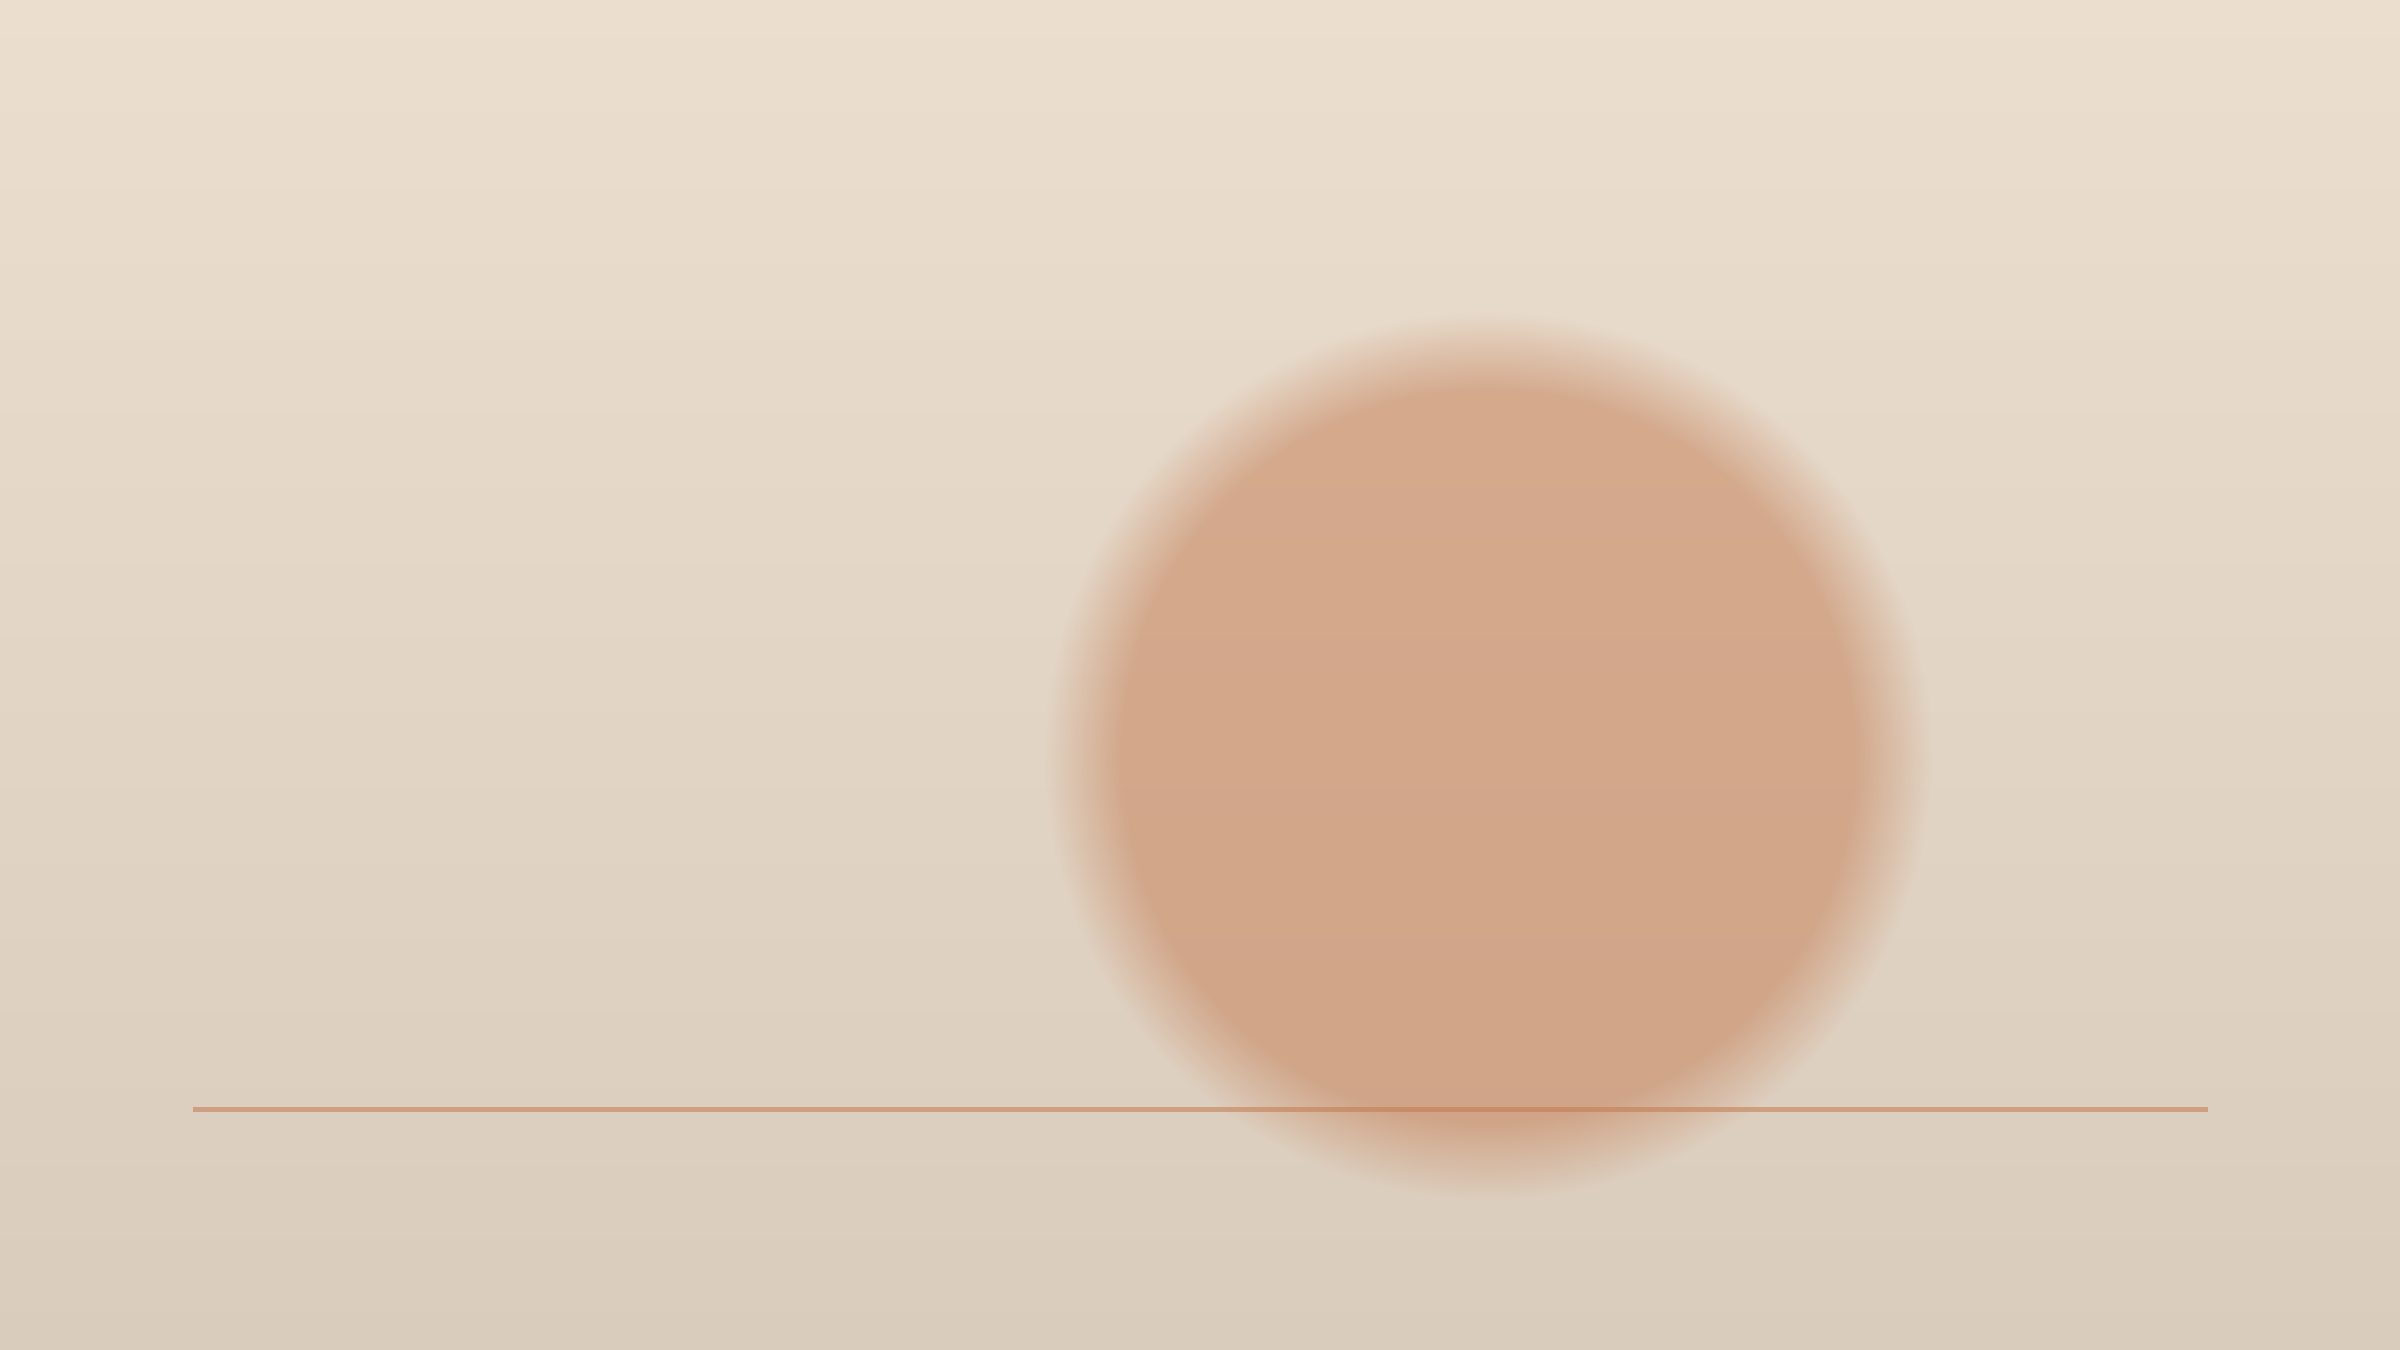
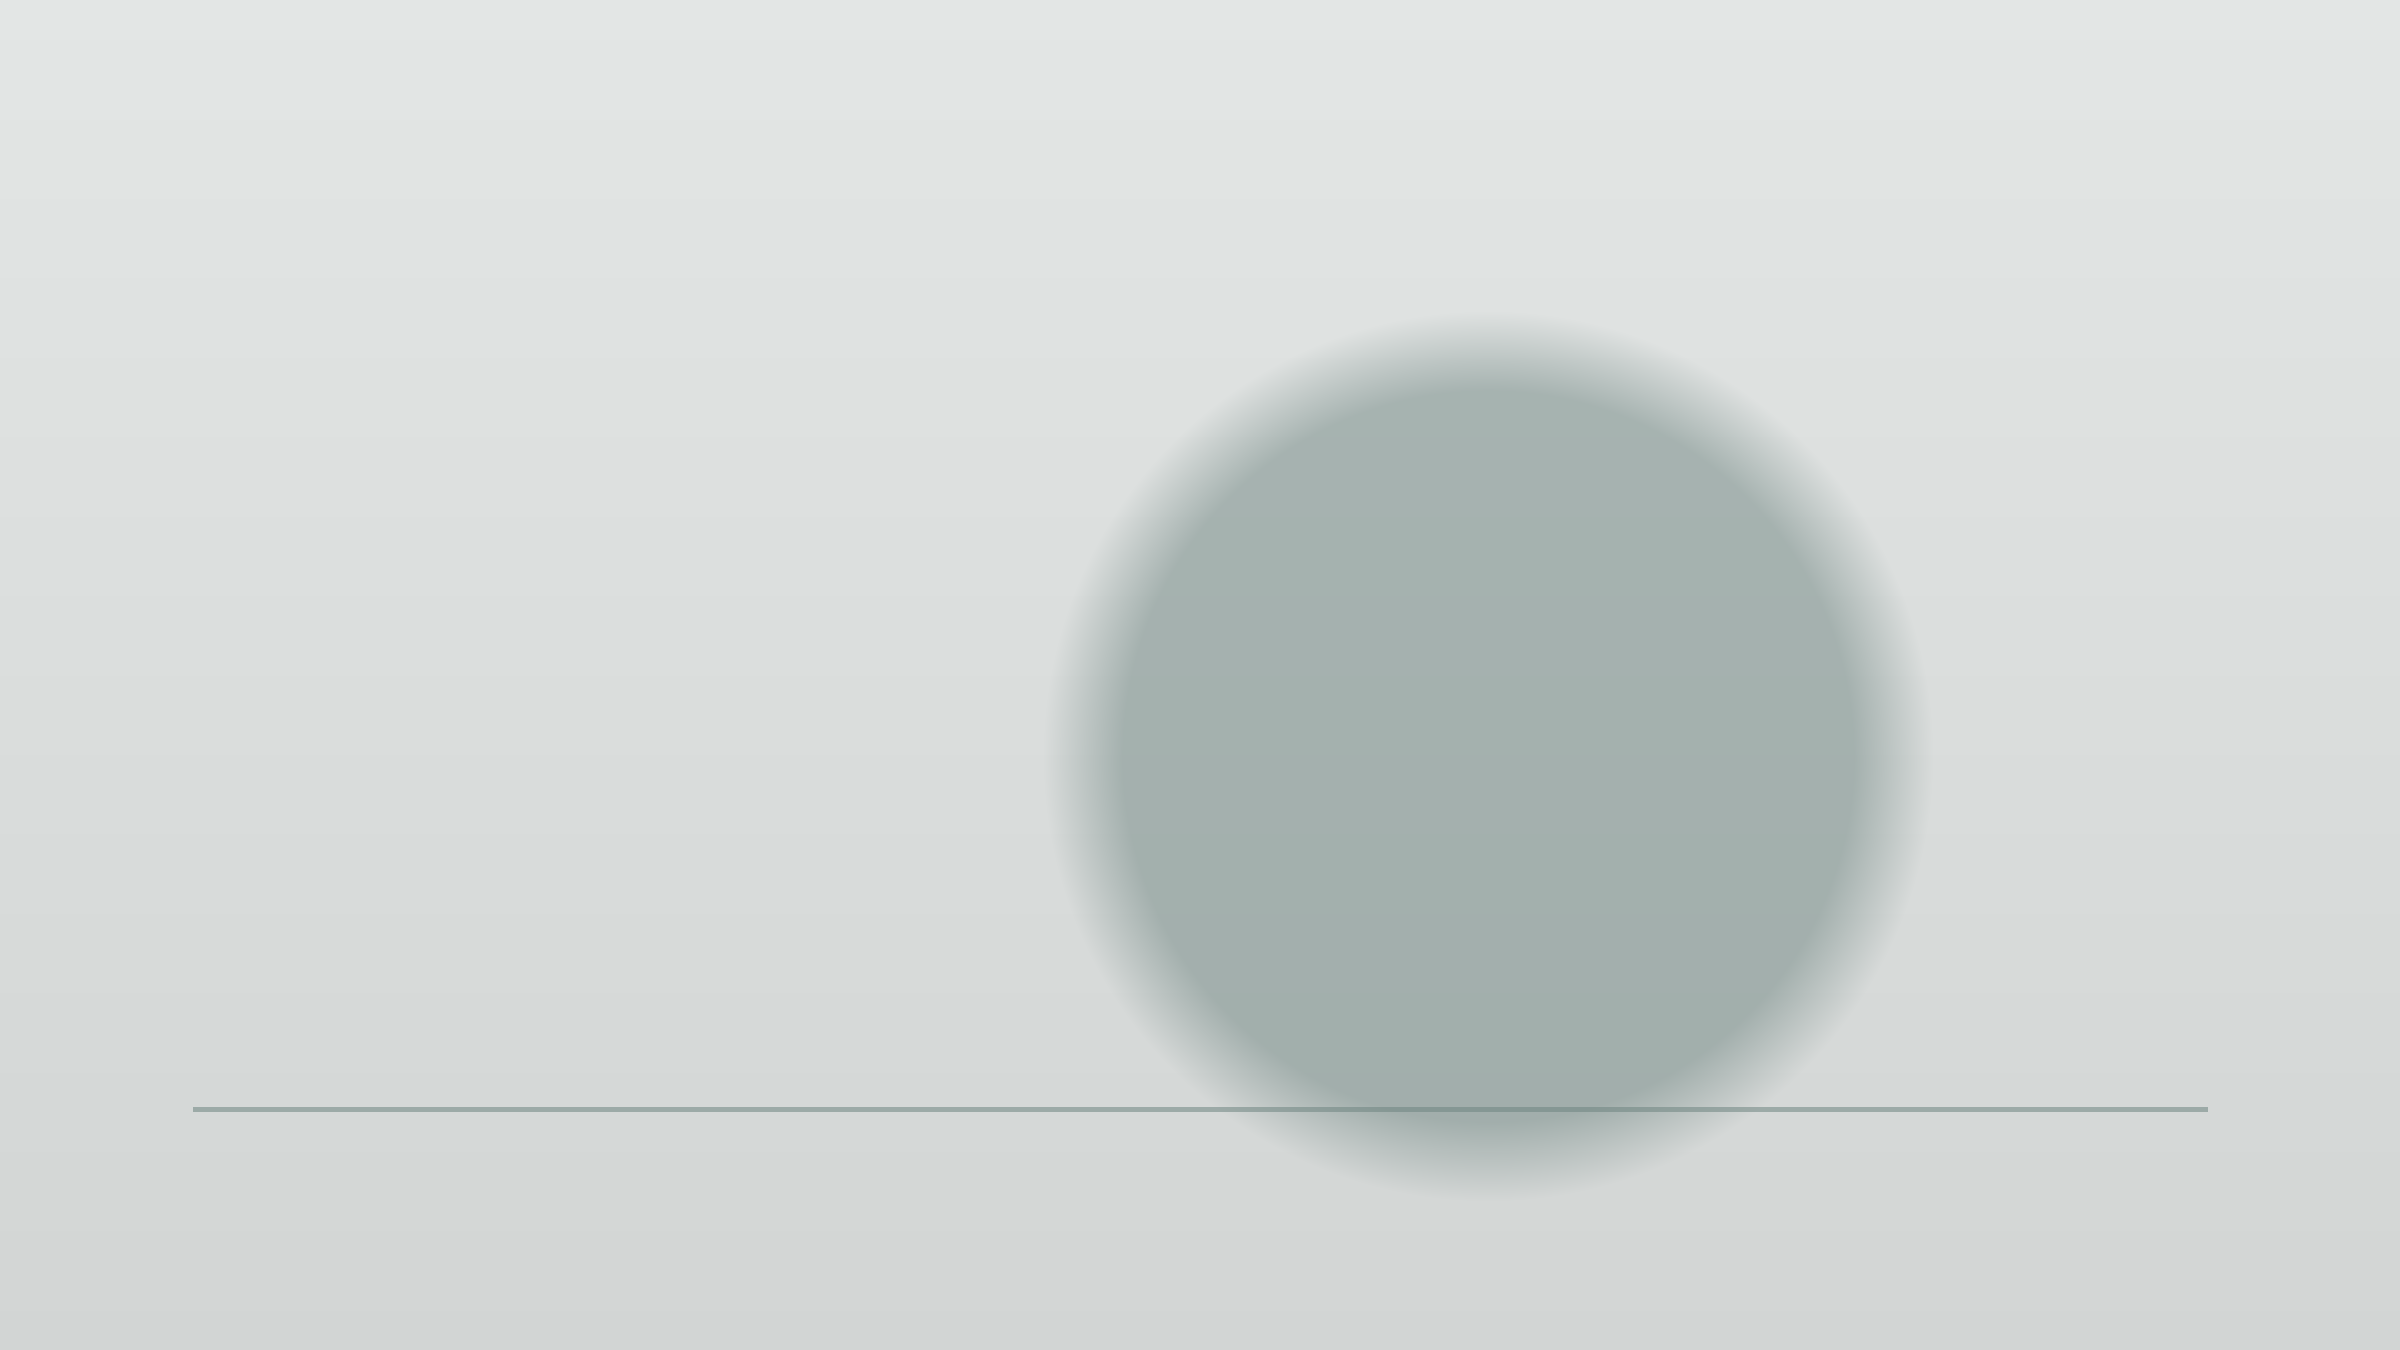
Shift palette to cool cream, fix narrow-viewport overflow
Palette moves from a warm golden beige to low-saturation neutrals with a
faint green cast; accent goes from terracotta to a deep sage. Placeholder
project images are regenerated in matching cool tones.

Secondary text tones are darkened past a straight hue shift: muted and
subtle previously sat around 3.4:1 and 2.8:1 against the background, below
WCAG AA. They are now ~5.8:1 and ~4.8:1.

Also adds overflow-wrap on body. At 320px the hero overflowed by 14px
because "multidisciplinary" cannot fit on one line at hero size.

Changed region(s): [[0.0938, 0.2178, 0.9062, 0.9022]]

diff --git a/src/app/globals.css b/src/app/globals.css
@@ -9,16 +9,18 @@
 
 @theme {
   /* --- Color ---------------------------------------------------------------
-     Warm beige foundation. Project media supplies most of the color on the
-     page, so the interface palette stays deliberately quiet. */
-  --color-bg: #f2ede3;
-  --color-bg-raised: #eae3d5;   /* media placeholders, subtle fills */
-  --color-ink: #1d1c18;         /* primary text */
-  --color-muted: #6b6455;       /* secondary text */
-  --color-subtle: #8d8674;      /* metadata, inactive states */
-  --color-line: #dbd2c1;        /* hairline borders */
-  --color-line-strong: #c6bba6; /* hover / active borders */
-  --color-accent: #a85a38;      /* used sparingly: focus rings, small details */
+     Cool beige / cream foundation: low-saturation neutrals with a faint green
+     cast rather than a golden one. Project media supplies most of the colour
+     on the page, so the interface palette stays deliberately quiet.
+     Text tones are set to clear WCAG AA contrast against --color-bg. */
+  --color-bg: #f0f0e9;
+  --color-bg-raised: #e5e5dd;   /* media placeholders, subtle fills */
+  --color-ink: #1b1c19;         /* primary text          ~16.5:1 */
+  --color-muted: #5b5e55;       /* secondary text         ~5.8:1 */
+  --color-subtle: #676a60;      /* metadata, inactive     ~4.8:1 */
+  --color-line: #d7d8ce;        /* hairline borders */
+  --color-line-strong: #c0c2b6; /* hover / active borders */
+  --color-accent: #4e5b45;      /* focus rings, small details ~6.3:1 */
 
   /* --- Typography ----------------------------------------------------------
      Fluid sizes. Each token carries its own leading, tracking and weight, so
@@ -103,6 +105,10 @@
     line-height: var(--text-body--line-height);
     -webkit-font-smoothing: antialiased;
     -moz-osx-font-smoothing: grayscale;
+    /* Safety net for very narrow viewports: a single long word (e.g. at hero
+       size on a 320px screen) breaks instead of overflowing the page. Never
+       triggers when the word already fits. */
+    overflow-wrap: break-word;
   }
 
   ::selection {
